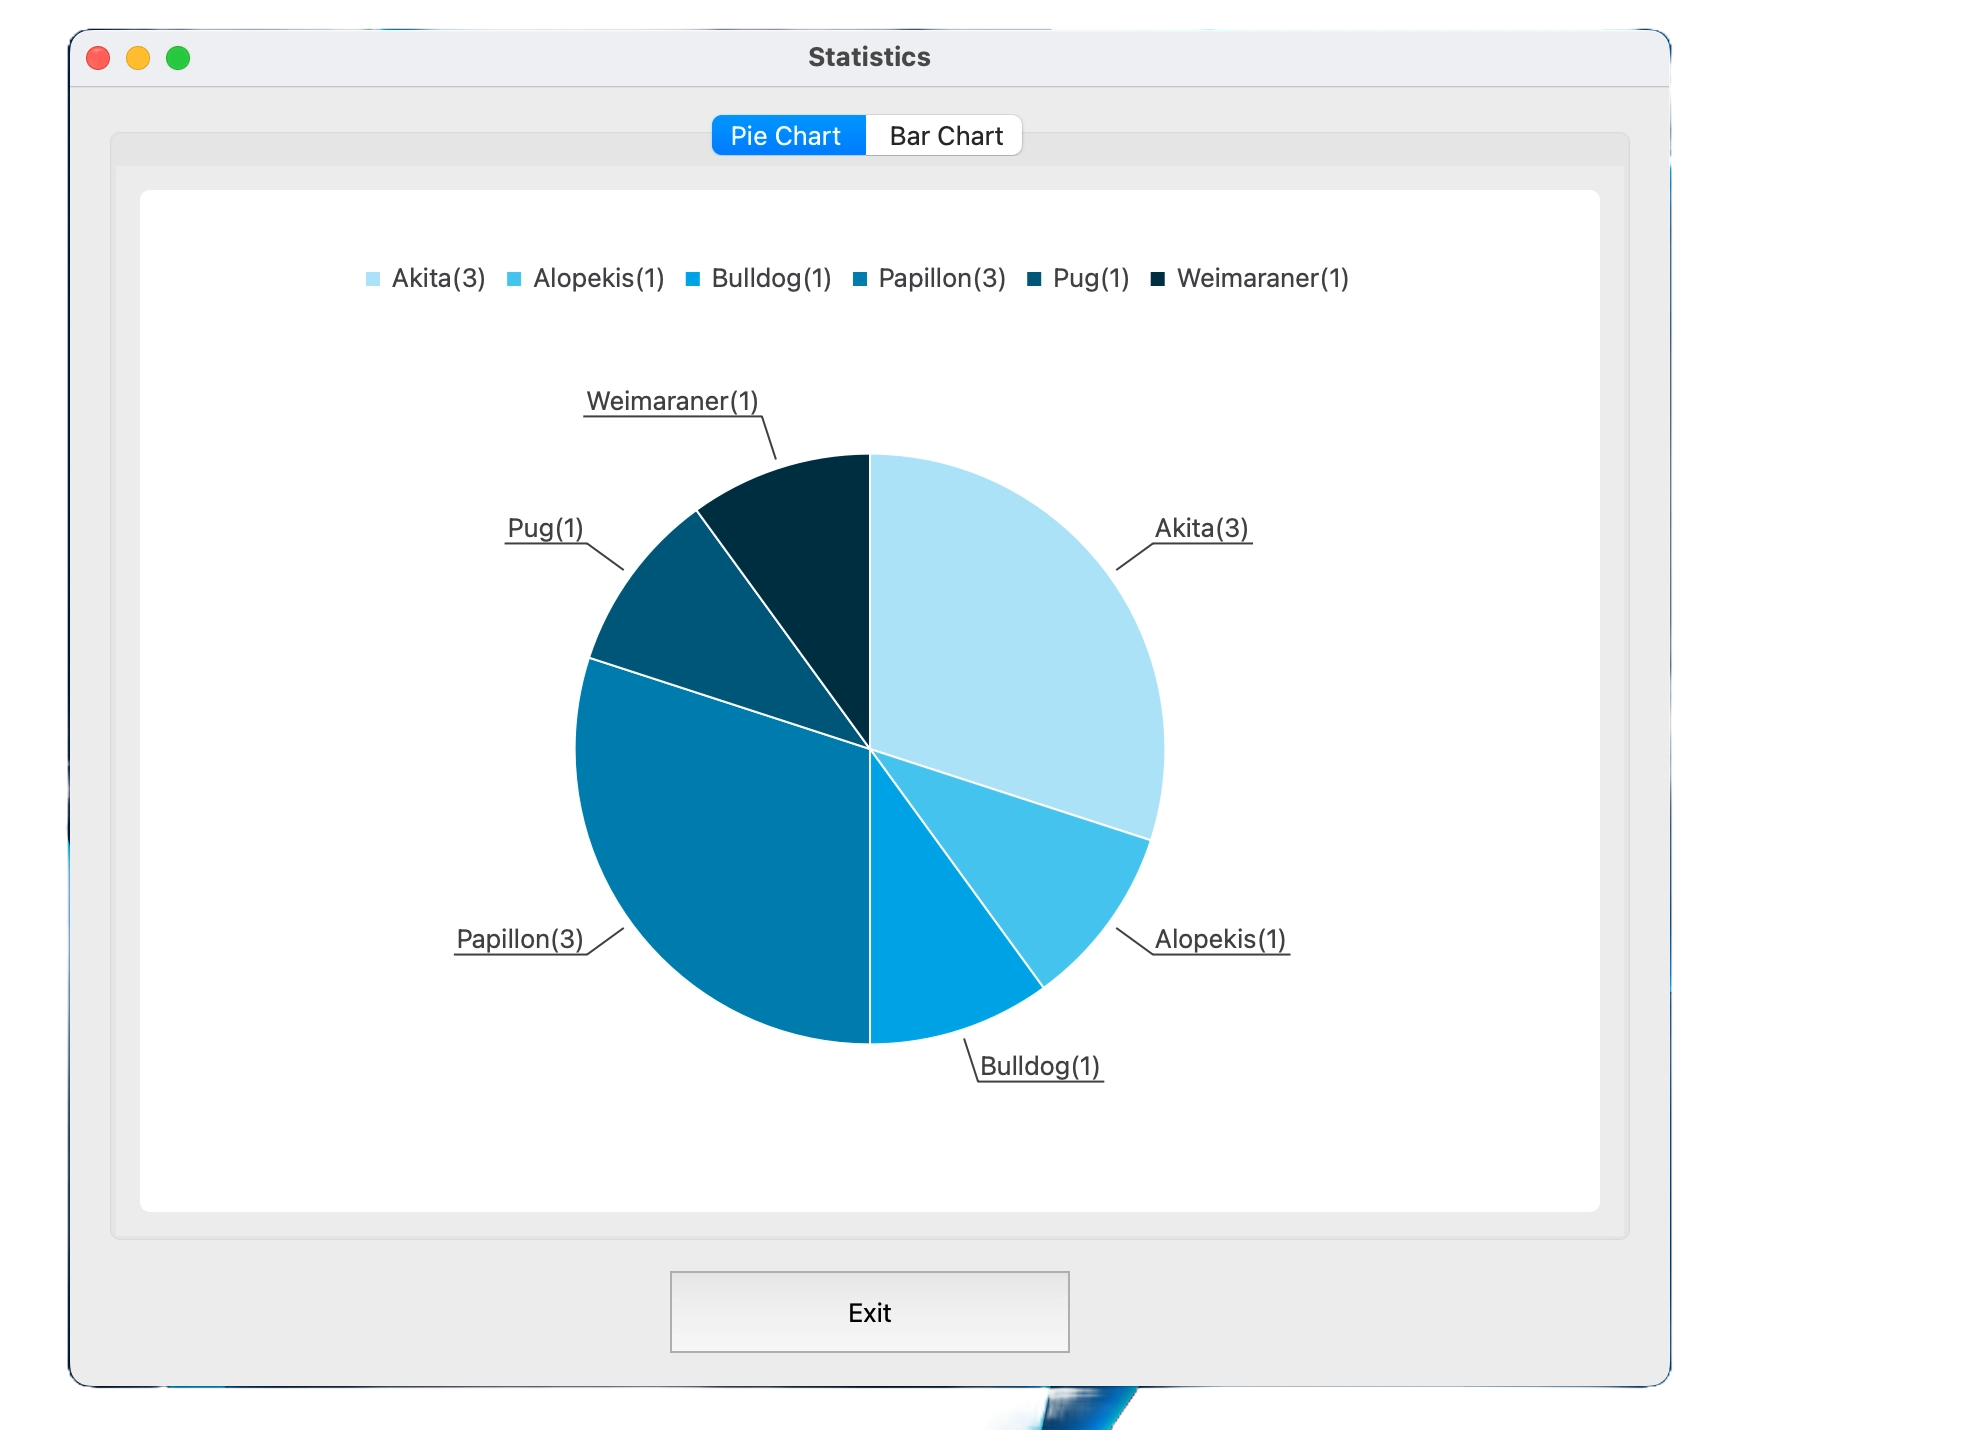
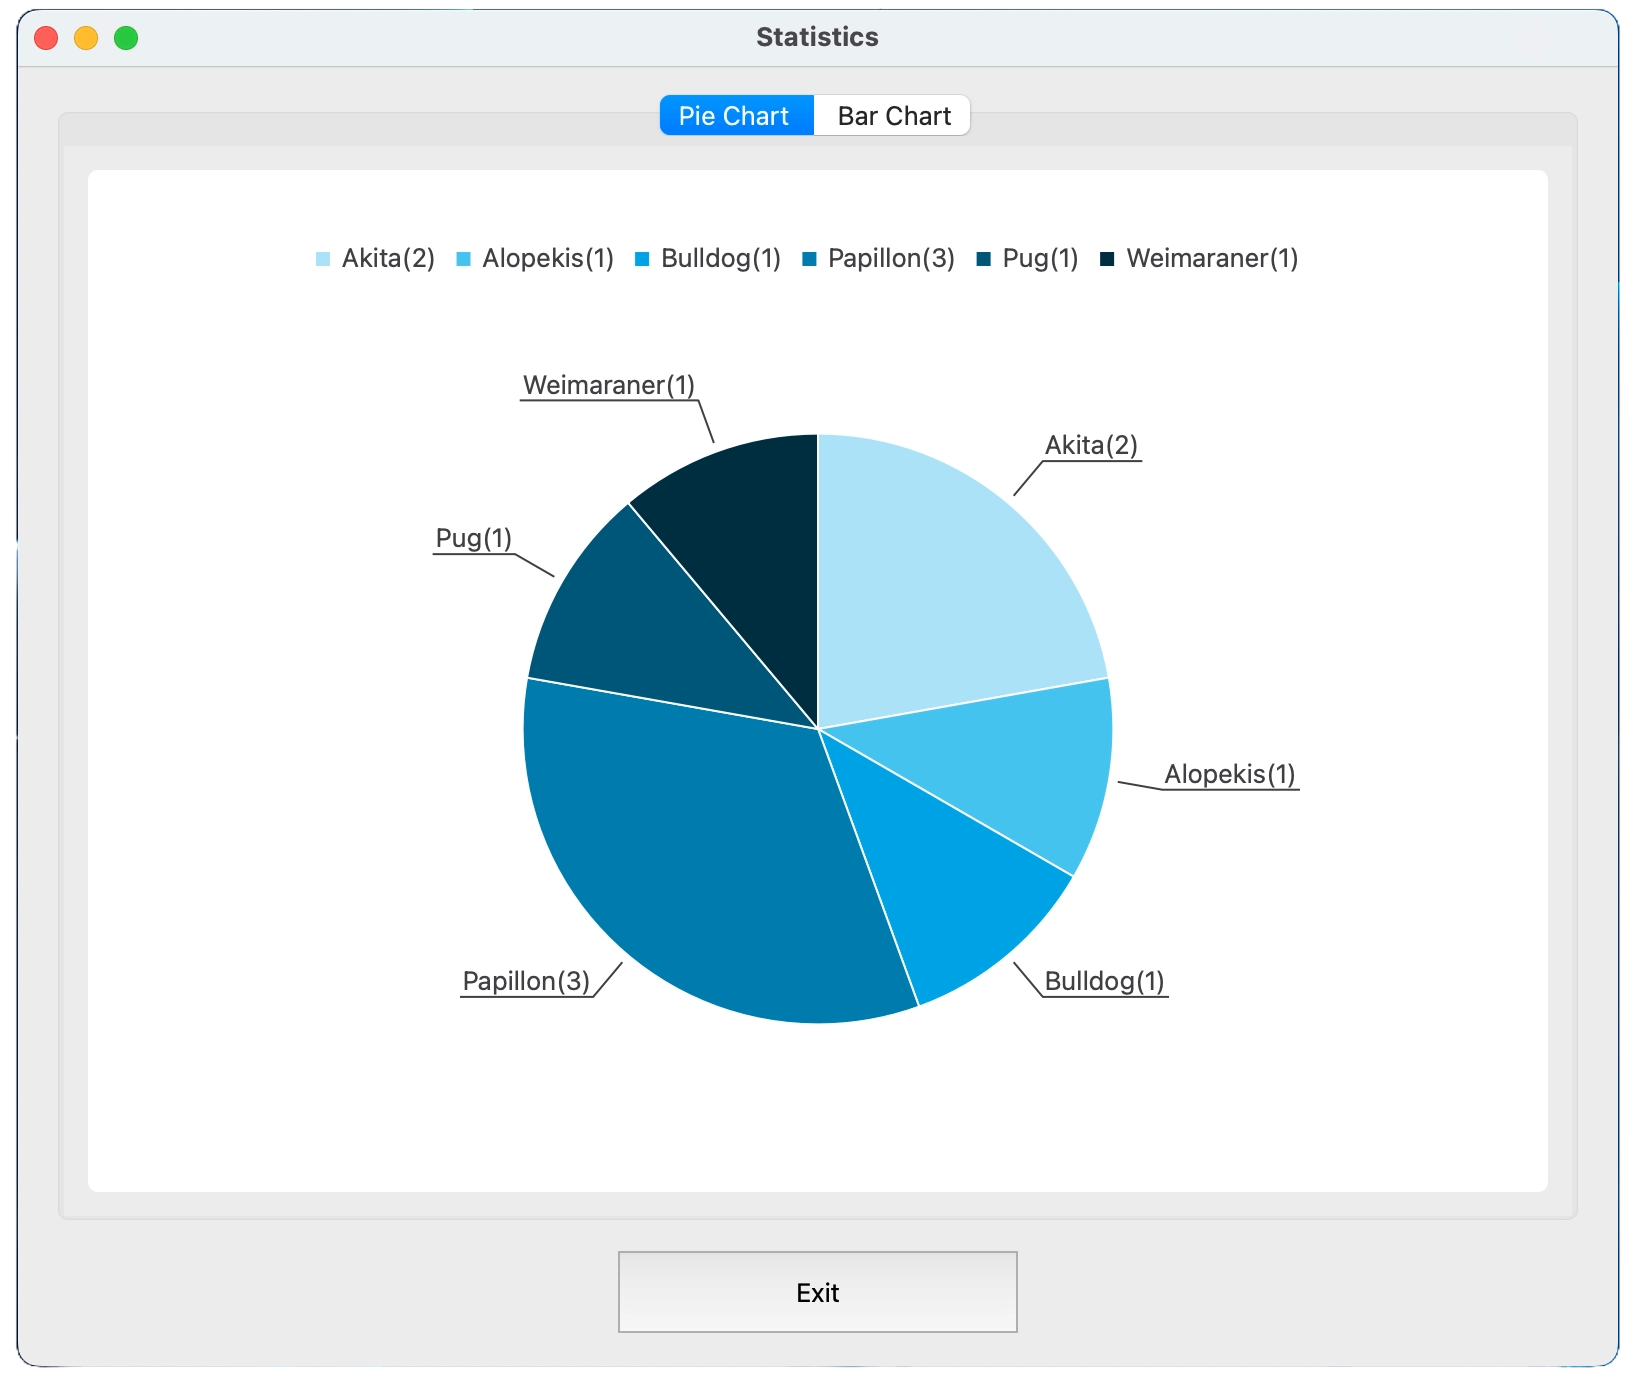
added things

diff --git a/src/files/adoption_list.html b/src/files/adoption_list.html
@@ -12,10 +12,10 @@
         <td>Link</td>
 </td>
 <tr>
-        <td>Bella</td>
+        <td>Charlie</td>
         <td>Akita</td>
-        <td>5</td>
-        <td><a href='https://dogtime.com/dog-breeds/akita' target='_blank'>https://dogtime.com/dog-breeds/akita</a></td>
+        <td>4</td>
+        <td><a href='https://www.europuppy.com/dog_breed_choosing/american_akita_puppies/' target='_blank'>https://www.europuppy.com/dog_breed_choosing/american_akita_puppies/</a></td>
 </tr>
 </tr>
 </table>
